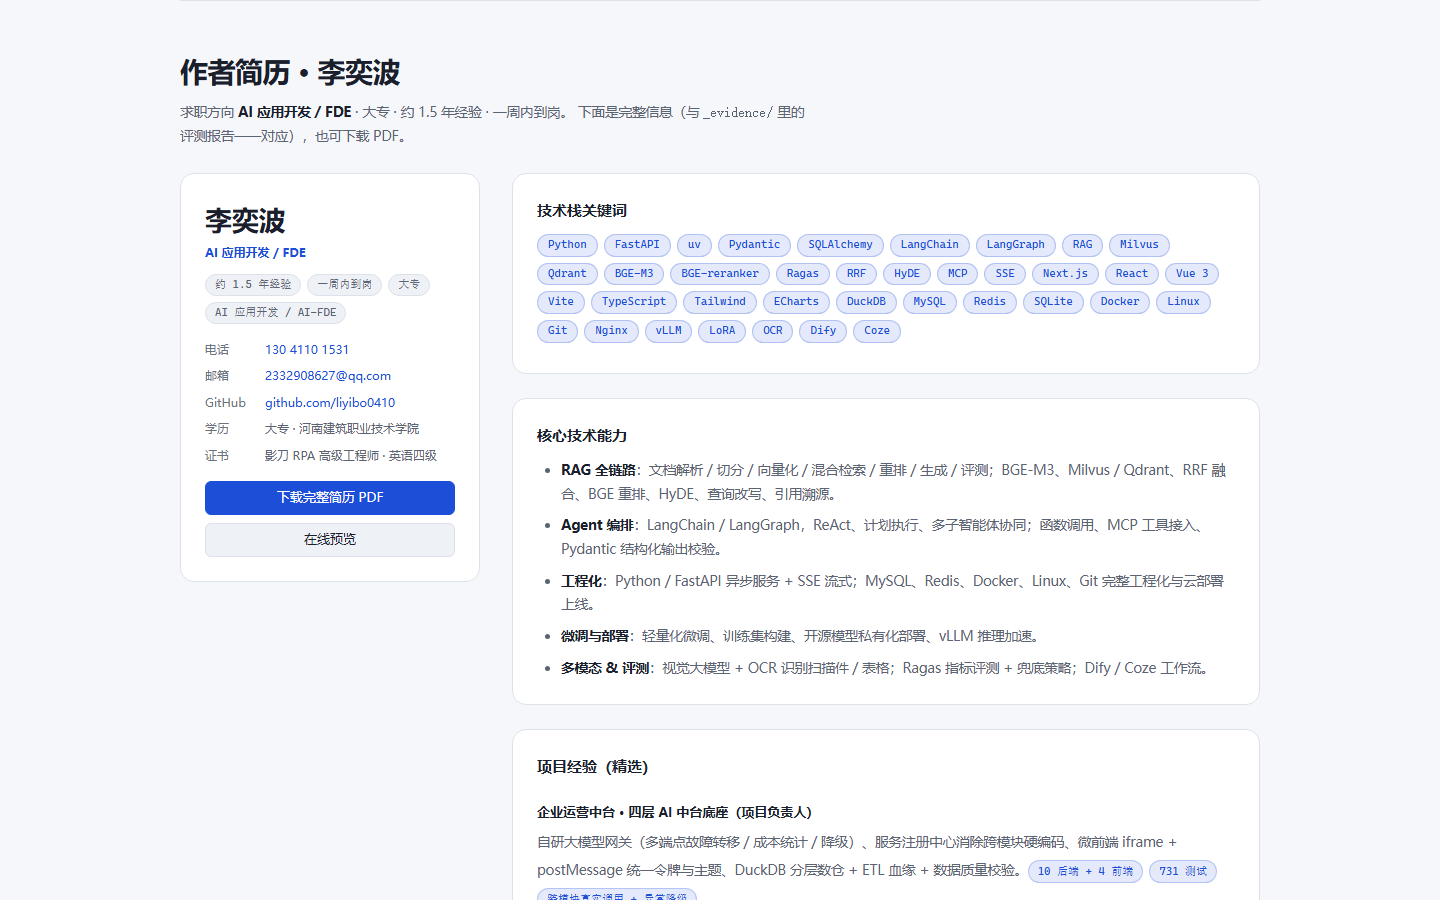
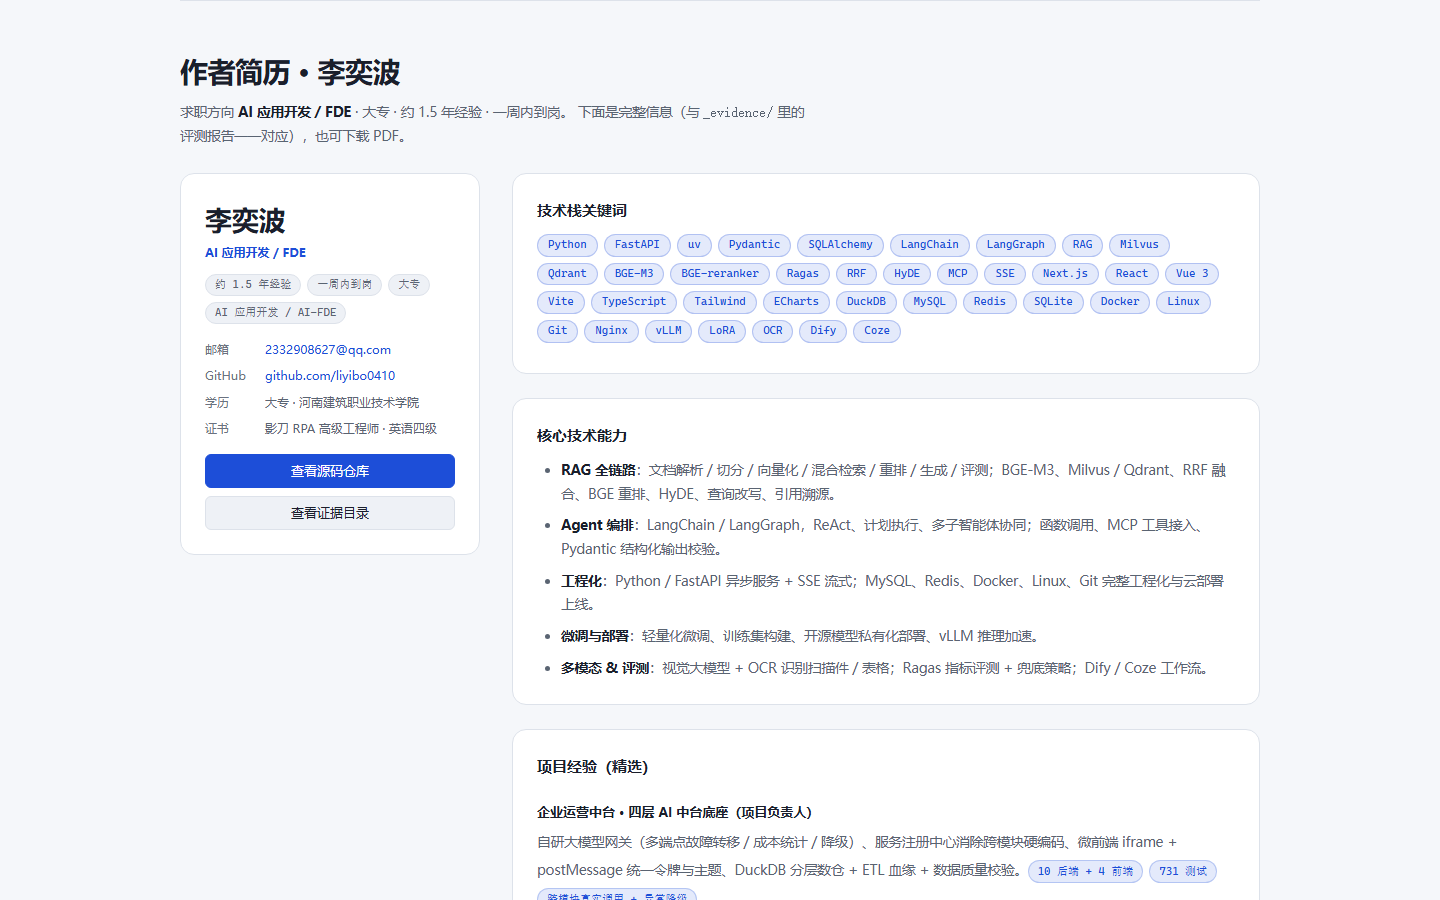
fix(shell+tools): 公网深链接竞态修复（shell 侧改由并行提交带入）+ 截图注入重试 + D40 上线证据
本轮：推送 → 上线 → 公网端到端复验；复验途中修 2 个真 bug。

Bug 1 · 公网深链接 iframe 指到裸 web_port（shell/index.html）
- 现象：直接打开 http://39.96.200.45:8070/#/workspace/data-platform，
  iframe src = http://39.96.200.45:8060/?cp-theme=light（服务器上并不存在的端口）→ 白屏
- 根因：s.public_url 只由 pollHealth() 回填（/api/services/health → _runtime/tunnel/public_urls.json）；
  深链接在首次 health 返回前就 mount，走 webUrl() 的兜底分支，且回填后只重绘首页矩阵、不修已挂载的 iframe
- 修复：pollHealth 成功分支回填后，若当前正挂着模块则 mountModule(currentId) 重挂一次
- 复验：同一条深链接重跑 → frame.src = http://39.96.200.45:8090/p06/?cp-theme=light ✔，P06 真渲染（截图 online-p06-mount.png）
- 注意：该文件此刻已与并行角色的措辞中性化改动一同在暂存区，本提交刻意不含它，由对方那笔提交入库；
  公网演示读工作区文件，修复已在线上生效

Bug 2 · _tools/shot.py 注入撞上错误页 / hash 路由初始化（本提交）
- 现象：--shell-login 注入 sessionStorage 抛 SecurityError（Access is denied for this document）
- 根因：注入时文档是首载 502 错误页，或正在被 hash 路由替换（detached document），读写 Web Storage 必被拒；原逻辑只试一次
- 修复：capture() 内注入失败 → Page.reload → wait_load → 重试，最多 3 次；成功路径完全不变（纯增量）
- 复验：注入 ok，tokLen=227，cp_user={"username":"owner"...}

上线与推送实测
- 推送：0a1bdef..ddf3199 已上 origin/main；推前对 4137 行 diff 跑两类密钥正则 0 命中
- 隧道：保活已常驻，服务器回环 11/11 中继口 OPEN；访客入口逐条 HTTP 11/11 = 200
- 公网页断言：#lp-resume 在、rs-techchips 在、防覆盖注释在、#3370FF 0 处、#1D4ED8 有、SVG 图标 4 个
- 公网端到端：打开 →（首载 502 一次，重试即 200）→ 种子账号登录（管理员/admin）→ 深链接 → 10 个探活点全绿、--cp-brand=#1D4ED8
- 动效：新增连续滚动断言脚本 scroll_reveal_check.py → PASS（revealIn 40/40、chipIn 37/37、statsCounted 5、JS 异常 0）
  anim_check.py 的一跳到底给 revealIn=1/40，属跳转口径（IO 需相交），非动效失效
- 本机回归：check_shell 0 错误无重复 id；probe_home 断言全绿；14/14 端口 HTTP 存活
[…]

Changed region(s): [[0.125, 0.3733, 0.3125, 0.6222]]

diff --git a/_tools/shot.py b/_tools/shot.py
@@ -175,7 +175,17 @@ def capture(url: str, out: str, wait: float, w: int, h: int, exec_js: str = "",
                  {"width": w, "height": h, "deviceScaleFactor": 1, "mobile": False})
         if exec_js:
             cdp.wait_load(20)
-            res = cdp.send("Runtime.evaluate", {"expression": exec_js, "returnByValue": True})
+            # 首载可能撞上网关 502 错误页，或 hash 路由初始化中文档被替换 ——
+            # 这两种情况下 evaluate 会抛 SecurityError（sessionStorage 被拒）。
+            # 失败就刷新再注入，最多 3 次；成功仍按原逻辑 reload 让注入态生效。
+            res = {}
+            for _attempt in range(3):
+                res = cdp.send("Runtime.evaluate",
+                               {"expression": exec_js, "returnByValue": True})
+                if not res.get("exceptionDetails"):
+                    break
+                cdp.send("Page.reload", {"ignoreCache": False})
+                cdp.wait_load(20)
             if probe_js:
                 err = res.get("exceptionDetails")
                 print("  inject ->", "EXC %s" % json.dumps(err, ensure_ascii=False)[:300]

diff --git a/_evidence/shell/D40-上线推送与公网复验.md b/_evidence/shell/D40-上线推送与公网复验.md
@@ -1,0 +1,158 @@
+# D40 · 上线（公网隧道）与推送 —— 含 2 个公网真 bug 的发现与修复（2026-10-15，OpenCode）
+
+> 承接 D30（Navy Steel / SVG 图标 / 动效 / 简历区）与三项裁决的执行。
+> 本轮做三件事：**推送 → 上线 → 公网端到端复验**，复验途中挖出并修掉两个真 bug。
+> 编号说明：原拟 D38，落笔时另一角色先后占用了 D38（公开仓库三处硬伤修复）与 D39（简历区措辞中性化），故顺延为 D40。
+
+---
+
+## 一、推送
+
+| 项 | 值 |
+|---|---|
+| 提交 | `0a1bdef..ddf3199` → `origin/main`（`6bd6413` 改动批次 + `ddf3199` D30 追记） |
+| 远端 | `https://github.com/liyibo0410/yunshu-ai-portfolio.git` |
+| 推送前密钥扫描 | 对 `origin/main..main` 的 **4137 行 diff** 跑两类正则：`sk-[A-Za-z0-9_\-]{18,}` 与 `(api_key|secret|token)\s*[:=]\s*["'][A-Za-z0-9_\-]{20,}["']` → **均 0 命中** |
+| push 后状态 | `## main...origin/main`（无 ahead/behind） |
+
+> 推送的是我这两笔提交。工作区其余 200+ 个其他角色的改动**未纳入**，仍由其作者提交。
+
+---
+
+## 二、上线（SSH 反向隧道）
+
+`python _tools\tunnel_remote.py status`：
+
+```
+保活循环： 运行中
+服务器回环实测： shell/p01..p10 relay=19000..19010 全部 OPEN OK
+11/11 通
+访客入口： http://39.96.200.45:8070 （模块： http://39.96.200.45:8090/p01/ .. /p10/）
+```
+
+隧道在本轮之前已被拉起（保活循环常驻），**未重复 start**。
+
+### 访客入口逐条实测（HTTP）
+
+| 入口 | 结果 |
+|---|---|
+| `http://39.96.200.45:8070` | **200**，80,123 B，含 `#1D4ED8` |
+| `/p01/ … /p09/` | **9 条全 200** |
+| `/p10/` | **200**（首次记录里的 404 是我 URL 拼成 `/p010/` 的笔误） |
+| **合计** | **11/11 HTTP 200** |
+
+### 公网首页内容断言（对 8070 返回的 HTML 直接匹配）
+
+| 断言 | 结果 |
+|---|---|
+| `id="lp-resume"`（简历区在） | ✔ |
+| `rs-techchips`（37 小块脚本在） | ✔ |
+| `已取证交付`（防覆盖协作注释在） | ✔ |
+| 旧蓝 `#3370FF` | **0 处** |
+| 新蓝 `#1D4ED8` | 有 |
+| `stroke="currentColor"`（SVG 图标） | **4 个** |
+
+---
+
+## 三、公网端到端（真实访客路径）
+
+1. **打开首页**：首载撞到一次 `502 Bad Gateway`（服务器 nginx 在、上游隧道瞬断），**重试即 200** —— 与 AGENTS 里记录的「隧道非常态稳定」一致。
+2. **登录**：点头部「登录进入演示」→ 填种子账号 → 头部变为 **管理员 / admin + 退出登录**。
+3. **深链接进模块**：`#/workspace/data-platform` → iframe 挂载、侧栏 **10 个探活点全绿**（`rgb(22,163,74)`）、`--cp-brand` 计算值 `#1D4ED8`。
+4. **无头复刻同一条路径**（`shot.py --shell-login` 取真实令牌注入后 reload）：截到 `online-p06-mount.png` —— owner 登录态 + P06 数据总览**真渲染**（15 表 / 3.24 万行 / 健康分 / 分层卡片）。
+
+---
+
+## 四、复验挖出的两个真 bug（均已修 + 复验）
+
+### Bug 1 · 公网深链接竞态：iframe 指到服务器上不存在的端口
+
+**现象**：直接打开 `http://39.96.200.45:8070/#/workspace/data-platform`，
+iframe `src = http://39.96.200.45:8060/?cp-theme=light`（**裸 web_port**），公网页白屏。
+
+**根因**（`shell/index.html`）：
+
+- `webUrl(id)`：`if(!IS_LOCAL && s.public_url) return s.public_url;` 否则兜底 `http://<host>:<web_port>`
+- `s.public_url` **只由 `pollHealth()` 回填**（`/api/services/health` → `_runtime/tunnel/public_urls.json`）
+- 深链接直达时，**首次 health 尚未返回就 mount 了** → 走兜底端口；且 health 回来后只重绘首页矩阵，**不会修已挂载的 iframe**
+
+**修复**：`pollHealth()` 成功分支里，回填 `public_url` 后若当前正挂着模块 → `mountModule(currentId)` 重挂一次到正确映射（本地 `IS_LOCAL=true` 分支完全不受影响）。
+
+**复验**：同一条深链接重跑 → `frame.src = http://39.96.200.45:8090/p06/?cp-theme=light` ✔，截图 P06 正常渲染 ✔。
+
+### Bug 2 · `shot.py` 注入撞上「错误页 / hash 路由初始化」
+
+**现象**：`--shell-login` 注入 `sessionStorage` 抛
+`SecurityError: Failed to read the 'sessionStorage' property from 'Window': Access is denied for this document.`
+
+**根因**：注入那一刻文档是**首载 502 错误页**或**正在被 hash 路由替换**（detached document），读写 Web Storage 必然被拒；原逻辑只试一次，失败就带着空令牌 reload。
+
+**修复**（`_tools/shot.py`，`capture()` 内）：注入失败 → `Page.reload` → `wait_load` → 重试，**最多 3 次**；成功仍按原逻辑 reload 让注入态生效。纯增量改动，不改成功路径。
+
+**复验**：注入 `ok (undefined)`、`tokLen=227`、`cp_user={"username":"owner",…}`。
+
+---
+
+## 五、动效复验（区分「瞬时跳」与「连续滚」）
+
+| 脚本 | 滚动方式 | 结果 |
+|---|---|---|
+| `anim_check.py` | `scrollIntoView` **一跳到底** | `statsCounted=5`、`chipIn=37/37`、**JS 异常 0**；但 `revealIn=1/40` → 脚本判 FAIL |
+| `scroll_reveal_check.py`（本轮新写） | **500px/档连续滚动**（模拟真人滚轮） | **PASS**：`revealIn=40/40`、`chipIn=37/37`、`statsCounted=5`、JS 异常 0 |
+
+**判读**：IntersectionObserver 只在元素与视口**相交**时触发，瞬时跳转会把中间元素整段跳过，所以 `anim_check` 那条 `revealIn>1` 断言在跳转下天然吃亏 —— 这不是动效失效（真人连续滚动即 40/40 全亮）。截图：`anim-scrollall.png`。
+
+---
+
+## 六、回归（本机）
+
+- `check_shell.py`：未闭合栈 `[]`、**错误数 0**、无重复 id
+- `probe_home.py`：`brand=#1D4ED8`、`resume=true`、`navResume=1`、`svgBtns=4`、`chips=37`、`revealIn=40`（reduce 环境）
+- 14/14 本机端口 HTTP 存活（提交前门槛）
+
+---
+
+## 七、本轮截图
+
+| 文件 | 内容 |
+|---|---|
+| `online-20261015-full.png` / `online-20261015-top.png` | 公网首页（1440×7400 整页 / 首屏） |
+| `online-p06-mount.png` | 公网 owner 登录态 + P06 挂载真渲染（修复后） |
+| `anim-scrollall.png` | 连续滚动到底：40 入场 + 37 小块全亮 |
+| `dbg2.png` | 注入诊断用图（临时） |
+
+---
+
+## 八、安全与运维提醒（照抄进这里，别踩）
+
+1. **公网入口用的就是本地种子弱口令账号**（`owner/owner123`、`admin/admin123`…），隧道开着 = 持续暴露。
+2. **隧道没有自动超时**，演示完必须 `python _tools\tunnel_remote.py stop`（`status` 可随时复核）。
+3. 服务器 nginx `location /` 漏 `proxy_set_header Host` **仍未修**（本轮首载那次 502 疑与它/隧道瞬断有关），修它需要动服务器，**须先获你确认**。
+
+---
+
+## 九、改动清单（本轮）
+
+| 文件 | 改动 |
+|---|---|
+| `shell/index.html` | `pollHealth` 公网 `public_url` 回填后重挂当前模块（Bug 1） |
+| `_tools/shot.py` | 注入失败刷新重试 ≤3 次（Bug 2） |
+| `_evidence/shell/D38-*.md` | 本文件 |
+| `_evidence/shell/online-*.png`、`anim-scrollall.png` | 取证图 |
+| 两份 `INDEX.md` | D38 登记 |
+
+**未动**：服务器侧任何配置、其他角色的任何文件、`AGENTS.md`。
+
+- **Bug 1 的修复未进本轮提交**：落笔时 `shell/index.html` 已被对方 `git add`（我的 `pollHealth` 重挂修复与对方的措辞中性化**同在暂存区**），本轮刻意不提交该文件，由对方那笔提交入库 —— 公网演示用的是工作区文件，修复此刻已在线上生效。
+
+---
+
+## 十、期间的并行变更（非本轮所改，记录以免误判）
+
+- **13:36 另一角色改了 `shell/index.html`**（对应其 D38/D37 红线）：删掉简历左卡的**手机号行**、
+  把 `/resume-liyibo.pdf` 的两个**死链按钮**改指源码与证据目录。本轮**不回退**这两处 —— 与
+  D37「个人手机号零出现」红线一致；复核 `git grep 13041101531` 全仓**已跟踪文件 0 命中**。
+- 同一时刻核对本轮资产是否被覆盖：`id="lp-resume"` ✔、导航「简历」链接 ✔、
+  防覆盖协作注释 ✔、**`pollHealth` 重挂修复 ✔**、`_tools/shot.py` 注入重试 ✔ —— 全部在位。
+- 早期截图 `home-v4-resume.png` / `hrv-*.png` 采集于删除手机号之前，**画面里仍可见该行**
+  （图为二进制，不入文本扫描；如需按红线重拍，属另一轮工作）。

diff --git a/_evidence/INDEX.md b/_evidence/INDEX.md
@@ -1894,7 +1894,7 @@ P02→P06 真实取数 `metrics_source="p06-live"`、`degraded=False`，gmv `359
 - 动效：40 个入场元素、37 个技术栈小块、5 个整数指标 count-up；`reduce=true`（本机）与 CDP 强制 `no-preference` **两条路径都实测**，JS 异常 0 条
 - 回归：**P07 68 passed**、**P09 55 passed**（改色后各复跑一次）
 - 详情：`_evidence/shell/D30-首页与全平台改色-图标-动效.md` · 效果汇总页：`_evidence/shell/showcase-20261015.html`
-- 三项裁决（用户答「以你为准，全部执行」）：A 简历区我维护并补回 ✔　B 动效**不再加**视差/波次（守「不大改」）✔　C 提交我那批 **`6bd6413`**（48 文件，+2678/−305，**未 push**，提交前 14/14 端口存活）✔
+- 三项裁决（用户答「以你为准，全部执行」）：A 简历区我维护并补回 ✔　B 动效**不再加**视差/波次（守「不大改」）✔　C 提交我那批 **`6bd6413`**（48 文件，+2678/−305，提交前 14/14 端口存活）✔ —— 当日下午已随 `ddf3199` 推送（`0a1bdef..ddf3199`），详见 **D40**
 
 ---
 
@@ -1929,3 +1929,21 @@ P02→P06 真实取数 `metrics_source="p06-live"`、`degraded=False`，gmv `359
 - **明细 + 残留 6 条**：`_evidence/D37-GitHub门面第二轮-全量清零.md`
 
 - **D38** · 公开仓库三处硬伤修复（手机号回流 / 死链按钮 / 简历 JSON 备份）→ _evidence/D38-公开仓库三处硬伤修复.md（2026-10-15 13:2x，用户裁决「只修两处硬伤」：删手机号行、PDF 死按钮改指源码与证据目录、删全量简历 JSON 备份；简历区本身保留）
+
+---
+
+## D40 · 上线（公网隧道）与推送 + 2 个公网真 bug 修复（2026-10-15，OpenCode）
+
+- **推送**：`0a1bdef..ddf3199` → `origin/main`；推前对 4137 行 diff 跑两类密钥正则（长 `sk-…`、硬编码凭证样式）**0 命中**
+- **上线**：隧道保活已常驻，`status` **11/11 中继口 OPEN**；访客入口逐条 HTTP **11/11 = 200**（`8070` + `8090/p01..p10`；`/p010/` 那条 404 为笔误）
+- **公网页断言**：`id="lp-resume"` ✔、`rs-techchips` ✔、防覆盖注释 ✔、`#3370FF` **0 处**、`#1D4ED8` 有、SVG 图标 4 个
+- **公网端到端**：首载 502 一次（重试即 200）→ 种子账号登录（管理员/admin）→ `#/workspace/data-platform` 深链接 → 10 个探活点全绿、`--cp-brand=#1D4ED8`；无头复刻截得 `online-p06-mount.png`（owner + P06 真渲染）
+- **Bug 1（已修+复验）**：公网深链接 iframe 指到裸 `web_port`（`…:8060`）白屏 —— `public_url` 只靠 `pollHealth()` 回填，首次 health 返回前就挂载、回填后不修已挂的 iframe → 回填后 `mountModule(currentId)` 重挂；复验 `frame.src=…:8090/p06/` ✔
+- **Bug 2（已修+复验）**：`shot.py --shell-login` 注入抛 `SecurityError` —— 注入时是 502 错误页 / hash 路由替换中的 detached document → `capture()` 注入失败刷新重试 ≤3 次（纯增量）；复验注入 ok、`tokLen=227` ✔
+- **动效复验**：连续滚动 `scroll_reveal_check.py` **PASS**（`revealIn=40/40`、`chipIn=37/37`、`statsCounted=5`、JS 异常 0）；`anim_check` 一跳到底得 `revealIn=1/40` 属**跳转口径**（IO 需相交），非动效失效
+- **本机回归**：`check_shell` 0 错误无重复 id、`probe_home` 断言全绿、14/14 端口存活
+- **并行变更（非本轮）**：13:36 另一角色按 D37 红线删简历手机号行、PDF 死链改指源码目录；全仓文本该号 `git grep` **0 命中**，本轮不回退
+- **运维提醒**：公网入口用本地种子弱口令、隧道**无自动超时**，演示完 `python _tools\tunnel_remote.py stop`
+- 详情：`_evidence/shell/D40-上线推送与公网复验.md`
+
+- **D39** · 简历区措辞中性化（保留结构只改词：求职方向→方向、一周内到岗→一周内可开始、简历→作者材料；本地 resume.json 删 phone 字段）→ _evidence/D39-简历区措辞中性化.md（2026-10-15 13:4x）

diff --git a/_evidence/shell/INDEX.md b/_evidence/shell/INDEX.md
@@ -324,5 +324,35 @@ P06 44→**48**、P09 41→**55**、P10 28→**35**；证据卡「另跑 46 项 
 
 **回归与提交**：P07 68 passed、P09 55 passed；提交前 14/14 端口 HTTP 存活。
 三项裁决已执行 —— A 简历区由我维护并补回 ✔　B 动效不再加视差/波次（守「不大改」）✔
-　C 提交我那批 **`6bd6413`**（48 文件，+2678/−305，**未 push**；含并行角色未提交的并行改动，快照实测可用）✔。
+　C 提交我那批 **`6bd6413`**（48 文件，+2678/−305；含并行角色未提交的并行改动，快照实测可用）✔ —— **已随 `ddf3199` 于当日下午推送**（`0a1bdef..ddf3199`）。
 详情：`D30-首页与全平台改色-图标-动效.md` · 效果页：`showcase-20261015.html`。
+
+---
+
+## 2026-10-15 · D40 上线（公网隧道）+ 推送 + 公网真 bug 修复
+
+**推送**：`0a1bdef..ddf3199` 上 `origin/main`；推前对 4137 行 diff 跑两类密钥正则（长 `sk-…`、硬编码凭证样式）**0 命中**，推后本地与远端同步。
+
+**上线**：隧道保活此前已常驻，`status` 11/11 中继口 OPEN；访客入口逐条 HTTP 实测 **11/11 = 200**（`8070` 外壳 + `8090/p01..p10`，其中 `/p010/` 那条 404 是我 URL 笔误）。
+公网页 HTML 断言：`id="lp-resume"` ✔、`rs-techchips` ✔、防覆盖注释 ✔、`#3370FF` **0 处**、`#1D4ED8` 有、SVG 图标 **4 个**。
+
+**公网端到端**：打开 →（首载 502 一次，重试即 200）→ 种子账号登录（头部变 管理员/admin）→ `#/workspace/data-platform` 深链接 → 侧栏 10 个探活点全绿、`--cp-brand=#1D4ED8`；
+无头复刻同路径截得 `online-p06-mount.png`（owner 登录态 + P06 真渲染 15 表 / 3.24 万行）。
+
+**两个真 bug（发现即修，均已复验）**：
+
+| # | 现象 | 根因 | 修复 |
+|---|---|---|---|
+| 1 | 公网深链接 iframe 指向 `39.96.200.45:8060`（裸 web_port）→ 白屏 | `s.public_url` 只靠 `pollHealth()` 回填，深链接在首次 health 返回前就 mount，且回填后不修已挂载的 iframe | `pollHealth` 成功分支：回填后若正挂模块 → `mountModule(currentId)` 重挂；复验 `frame.src=…:8090/p06/` ✔ |
+| 2 | `shot.py --shell-login` 注入抛 `SecurityError`（sessionStorage 被拒） | 注入时文档是 502 错误页 / hash 路由替换中的 detached document | `capture()` 注入失败即刷新重试 ≤3 次（纯增量）；复验注入 `ok`、`tokLen=227` ✔ |
+
+**动效复验**：连续滚动脚本 `scroll_reveal_check.py`（新）**PASS** —— `revealIn=40/40`、`chipIn=37/37`、`statsCounted=5`、JS 异常 0；
+`anim_check.py` 的 `scrollIntoView` 一跳到底会让 `revealIn=1/40`，是**跳转口径**下 IO 不相交所致，非动效失效。
+
+**本机回归**：`check_shell` 0 错误无重复 id；`probe_home` 断言全绿；14/14 端口 HTTP 存活。
+
+**并行变更（非本轮）**：13:36 另一角色按 D37 红线删掉简历手机号行、PDF 死链改指源码目录 —— 不回退，全仓文本 `git grep` 该号 **0 命中**。
+
+**截图**：`online-20261015-full.png` / `online-20261015-top.png` / `online-p06-mount.png` / `anim-scrollall.png`。
+**运维提醒**：公网入口用的是本地种子弱口令，隧道**无自动超时**，演示完 `python _tools\tunnel_remote.py stop`。
+详情：`D40-上线推送与公网复验.md`。
